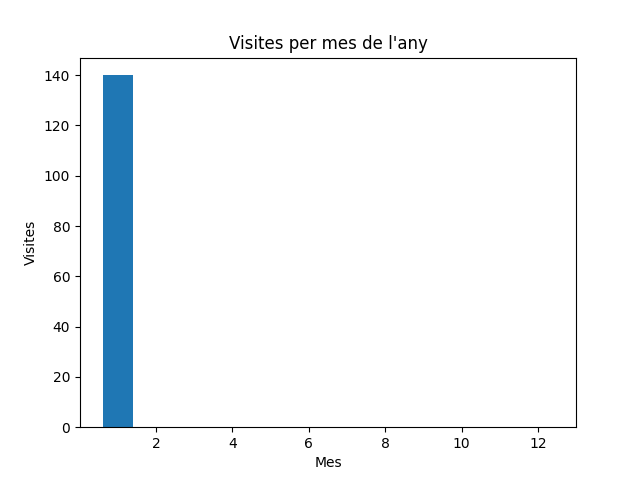
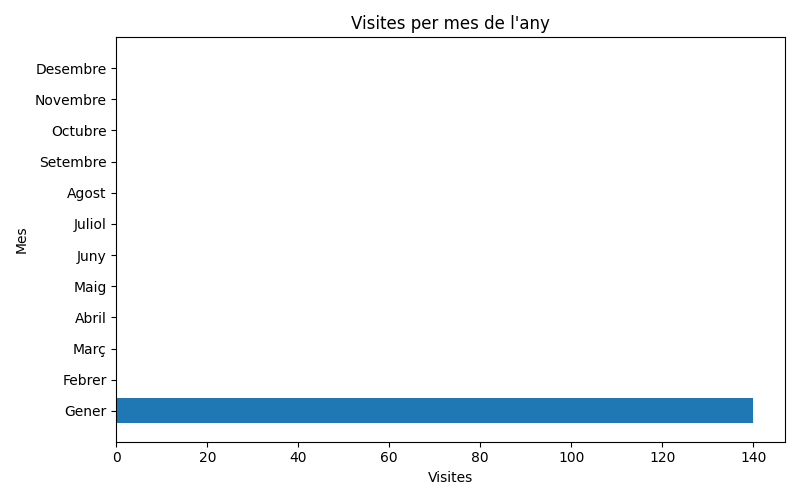
finished statistics

Changed region(s): [[0.0, 0.0312, 1.0, 0.9375], [0.5, 0.9375, 0.5938, 0.9688]]

diff --git a/estadistiques.py b/estadistiques.py
@@ -173,18 +173,24 @@ def generar_estadistiques():
     plt.close()
 
     # =========================
-    # 3⃣ Visites per mes
+    # 3⃣ Visites per mes (barres horitzontals)
     # =========================
-    mesos = list(range(1, 13))
-    valors = [per_mes[m] for m in mesos]
+    noms_mesos = [
+        "Gener", "Febrer", "Març", "Abril", "Maig", "Juny",
+        "Juliol", "Agost", "Setembre", "Octubre", "Novembre", "Desembre"
+    ]
 
-    plt.figure()
-    plt.bar(mesos, valors)
+    valors = [per_mes.get(i + 1, 0) for i in range(12)]
+
+    plt.figure(figsize=(8, 5))
+    plt.barh(noms_mesos, valors)
     plt.title("Visites per mes de l'any")
-    plt.xlabel("Mes")
-    plt.ylabel("Visites")
+    plt.xlabel("Visites")
+    plt.ylabel("Mes")
+    plt.tight_layout()
     plt.savefig(f"{OUTPUT_DIR}/visites_per_mes.png")
     plt.close()
+
 
     # =========================
     # 4⃣ Evolució temporal per setmana
